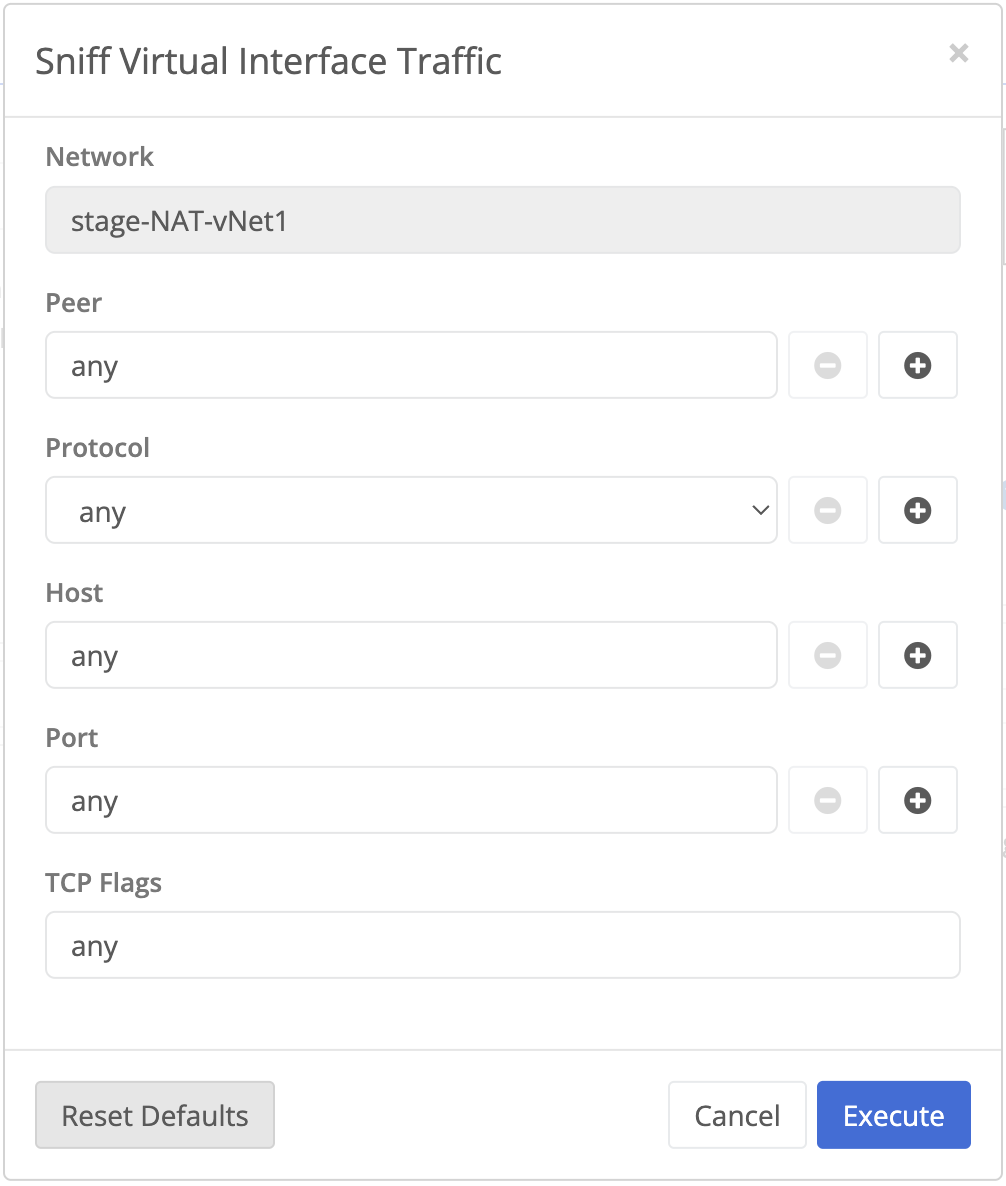
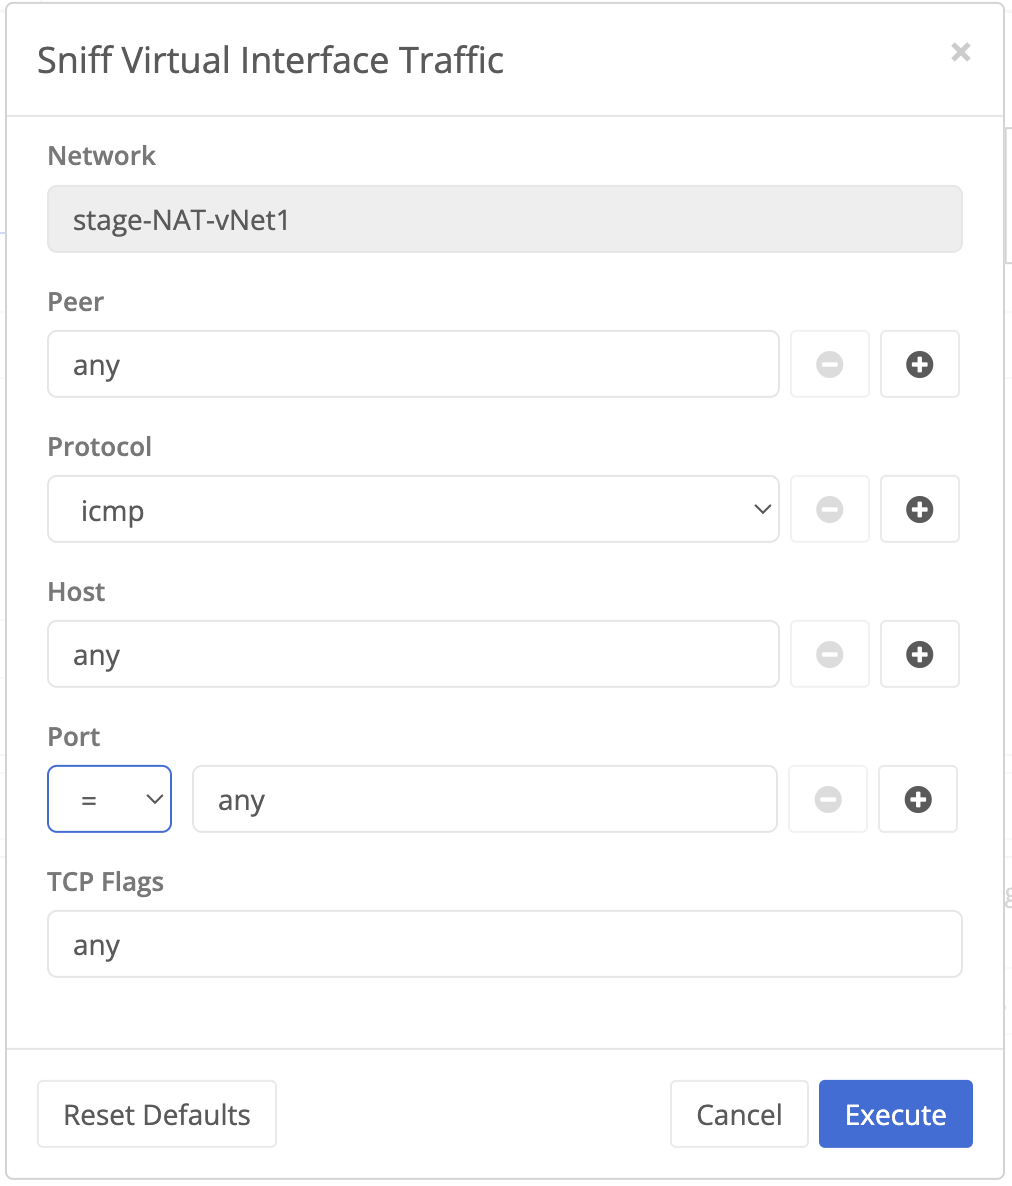
n218 notes and changes

diff --git a/content/en/release-notes/node/2024-02/index.md b/content/en/release-notes/node/2024-02/index.md
@@ -1,0 +1,32 @@
+---
+title: February 2024 Appliance Release Notes
+linkTitle: February 2024
+type: docs
+date: 2024-02-01
+description: "Release notes for the February 2024 Trustgrid Appliance release focused on support for agents"
+---
+{{< node-release package-version="1.5.20240131-1959" core-version="20240131-005233.4838689" release="n-2.18.0" >}}
+
+## Removal of Local UI System
+The local UI functionality allowed users with direct physical access to an appliance network port to connect to a lightweight web server on the appliance to change the WAN interface IP and see the connectivity status. Several years ago, this solution was augmented with the [Console Utility]({{<relref "/tutorials/local-console-utility">}}) which has proved easier to use and has been expanded to provide much more functionality. The local UI has now been removed to simplify the appliance and focus efforts on the Console Utility.
+
+## VPN Sniff Improvements
+This release improves the [Virtual Network Sniff]({{<relref "/tutorials/remote-tools/sniff-virtual-traffic">}}) tool to allow more flexibility matching based on ports.  We now support port matching based on:
+- equal (=)
+- not equal (!=) to exclude traffic for the specified port
+- greater than (>) and less than (<)
+- a port range (<>) which will show all traffic with ports between the two values
+{{<tgimg src="vpn-sniff-port-opts.png">}}
+
+## Agent Support
+Gateways running this version will be the first to support the new lightweight Trustgrid agent-based nodes. More details will be announced once the agent has been officially released. 
+
+## Other Improvements
+- The [JVM Heap metric]({{<relref "/docs/nodes/metrics#jvm-heap">}}) is now exposed via the [Trustgrid SNMP OID]({{<relref "/docs/nodes/snmp/oids">}})
+- The `dig` and `nslookup` commands are now available from the [Console Network Tools Shell]({{<relref "/tutorials/local-console-utility/troubleshooting#network-tools-shell">}})
+- [Remote Console Registration]({{<relref "/tutorials/local-console-utility/remote-registration">}}) no longer forces upgrading to the latest version. This makes the process of registration quicker, though it is still recommended to [upgrade to the latest version]({{<relref "/tutorials/management-tasks/upgrade-nodes">}}) after the node is online. 
+
+## Other Fixes
+- If a [BGP]({{<relref "docs/nodes/bgp">}}) server received a route removal update, it would remove the OS route but sometimes not update the BGP table. Then if the same route was added back, the BGP server would fail to recreate the OS route. This release resolves this issue. 
+- Resolves an issue where traffic egressing a Virtual Network would not evaluate the specificity of interface routes when determining the next hop. For example, if you had two routes (172.16.22.0/24 and 172.16.22.100/32) with different next hops, the more specific /32 route next hop was not utilized. 
+- Resolves an issue with [Access Policies]({{<relref "/docs/domain/virtual-networks/access-policy">}}) using the reject action.  The reject response (e.g. RESET for TCP) generated had the source and destination IPs transposed. This release fixes the source/destination IP placement in reject responses.

diff --git a/content/en/tutorials/remote-tools/sniff-virtual-traffic/index.md b/content/en/tutorials/remote-tools/sniff-virtual-traffic/index.md
@@ -20,7 +20,14 @@ Once launched, you will be prompted to provide any filters to limit the traffic 
 {{<field "Peer(s)">}}Use this field to filter for traffic only between the current node and the listed peer.{{</field>}}
 {{<field "Protocol(s)">}} Filter to specified network protocol(s): any, tcp, udp, or icmp {{</field>}}
 {{<field "Host(s)">}} Filter to see traffic matching the specified **virtual** IP address(es){{</field>}}
-{{<field "Port(s)">}} Filter to see traffic matching the specified ports. This will match either destination or source port. For ICMP, this does not apply. {{</field>}}
+{{<field "Port(s)">}} Filter to see traffic matching the specified ports. This will match either a destination or source port. 
+The operator on the left allows for matching based on:
+- equal (=)
+- not equal (!=) to exclude traffic for the specified port
+- greater than (>) and less than (<)
+- a port range (<>) which will show all traffic with ports between the two values
+
+For ICMP, this field does not apply. {{</field>}}
 {{<field "TCP Flags">}} Only applies to TCP traffic. It can filter based on the following flags:
 - S = SYN - The start of a new TCP connection
 - . = ACK - Acknowledges received data

diff --git a/content/en/tutorials/local-console-utility/troubleshooting/index.md b/content/en/tutorials/local-console-utility/troubleshooting/index.md
@@ -55,8 +55,9 @@ These commands include:
     * `ip address` or `ip a` lists the IP addresses assigned to all interfaces
     * append `show <interface name>` to either of the above to limit to a specific interface. e.g. `ip a show enp0s20f0`
     * `ip route` lists the current OS routing table
-    
-
+* `dig` for confirming DNS resolution
+    * `dig repo.trustgrid.io +short` will provide just the IP address using the configured DNS servers
+    * `dig @8.8.8.8 repo.trustgrid.io +short` will query Google's DNS server directly and provide the IP address
 ## ARPing
 This command can be used to confirm layer 2 connectivity between the Trustgrid appliance and other devices on the same network.  For example, to confirm the default gateway IP address is reachable use a command like `arping -I eth0 192.168.127.1`. This will send an ARP request to the default gateway IP address and display the resulting MAC address.  
 
